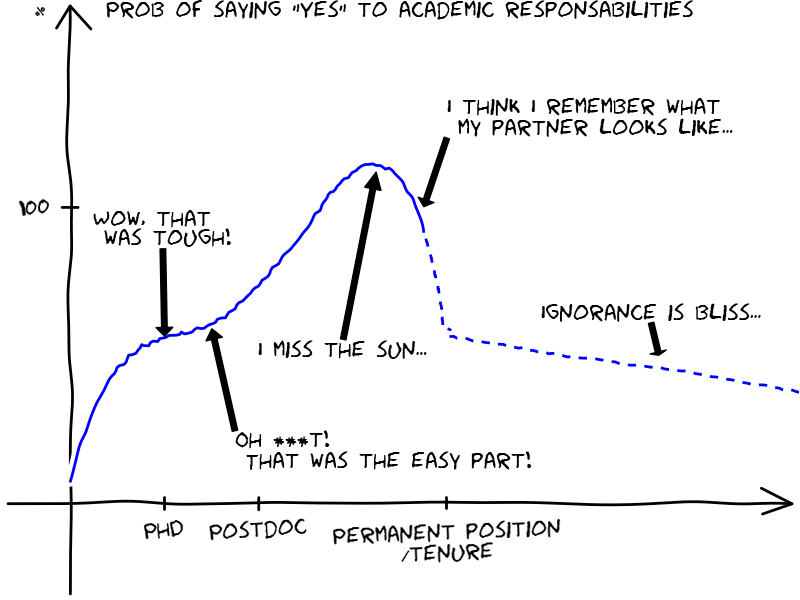
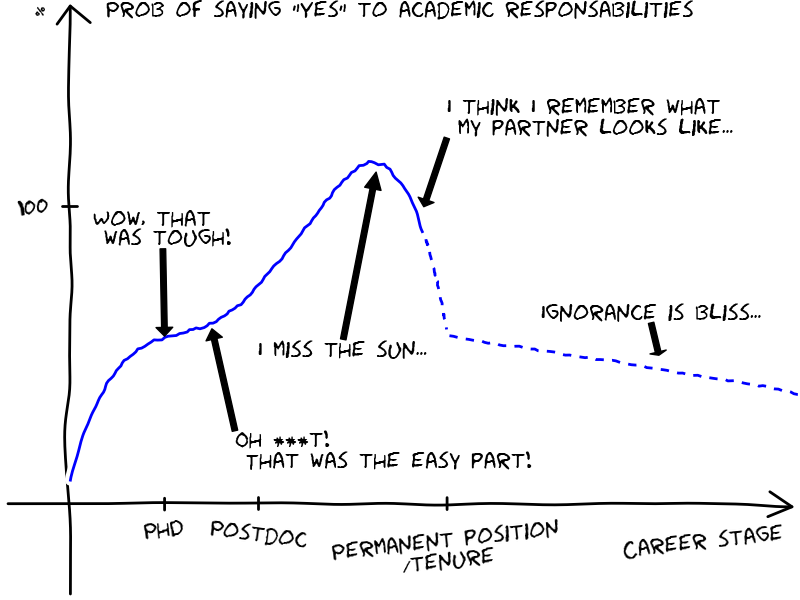
added label to x

diff --git a/Say_no-yes.py b/Say_no-yes.py
@@ -33,7 +33,7 @@ ax.plot(x, y, 'b--', lw=1)
 
 # set labels/title
 ax.set_title('Prob of saying "Yes" to academic responsabilities')
-#ax.set_xlabel('Career stage')
+ax.set_xlabel('Career stage')
 ax.set_ylabel('%')
 
 # set legend position

diff --git a/README.md b/README.md
@@ -1,4 +1,4 @@
-Repo for blog post making use of XKCDify. I wrote some code for a blog post after reading [this post](http://blogs.ams.org/phdplus/2013/05/19/learning-to-say-no/).
+Repo for blog post making use of XKCDify. I wrote some code for a [blog post](http://drvinceknight.blogspot.co.uk/2013/05/probability-of-saying-yes-to-academic.html) after reading [this post](http://blogs.ams.org/phdplus/2013/05/19/learning-to-say-no/).
 
 The main point of my post is to draw a plot in XKCD style showing the probability of saying "yes" to various academic responsibility requests.
 
